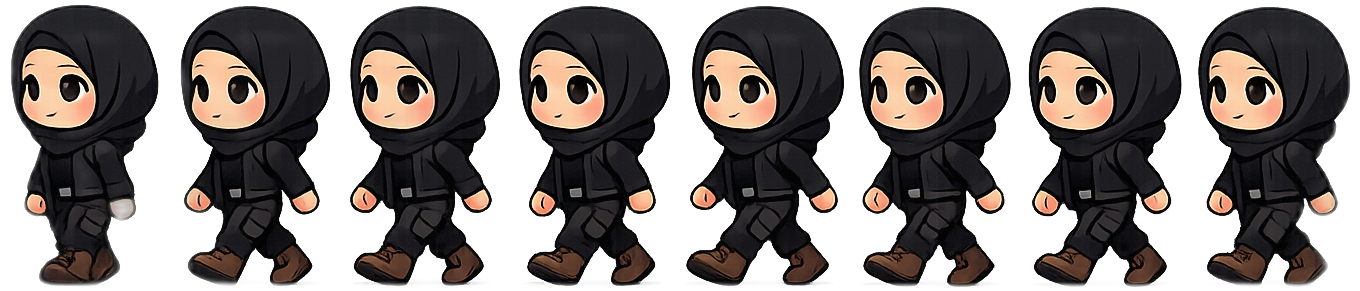
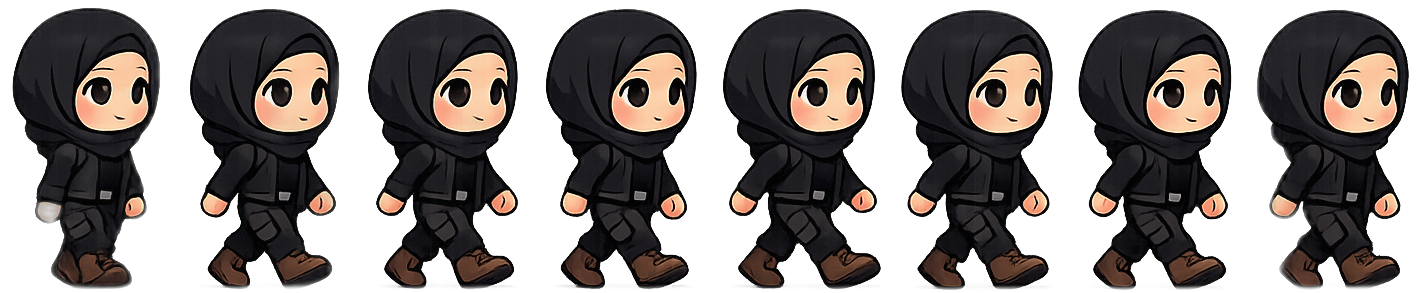
Fix couple facing: mirror bride sheet so both face same direction

diff --git a/index.html b/index.html
@@ -381,8 +381,8 @@ function roundRect(x,y,w,h,r){ ctx.beginPath(); ctx.moveTo(x+r,y); ctx.arcTo(x+w
 /* chibi walk-cycle sheets: one horizontal row of N cells, character facing RIGHT.
    metadata measured from the re-packed sheets (see assets/*_walk.png) */
 const WALK={
-  groom:{n:10, fw:149, fh:269, idle:7},
-  bride:{n: 8, fw:170, fh:291, idle:0},
+  groom:{n:10, fw:158, fh:271, idle:0},
+  bride:{n: 8, fw:178, fh:293, idle:0},
 };
 const CHAR_TH=80, CHAR_BOT=4;   // on-screen height (logical) + baseline pad baked into the cell
 function drawCouple(){ worldTransform();
@@ -391,15 +391,11 @@ function drawCouple(){ worldTransform();
   const gf = player.walking ? Math.floor(player.step)%gm.n : gm.idle;
   const bf = player.walking ? Math.floor(player.step)%bm.n : bm.idle;
   player.frame=gf;
-  if(player.walking){
-    // both face the direction of travel (sheets face right; flip when going left)
-    if(player.dir>0){ char(IMG.groom,gm,gf,cx-dx,by,false); char(IMG.bride,bm,bf,cx+dx,by,false); }
-    else            { char(IMG.bride,bm,bf,cx-dx,by,true);  char(IMG.groom,gm,gf,cx+dx,by,true); }
-  } else {
-    // idle: both face right, standing side by side
-    char(IMG.groom,gm,gf,cx-dx,by,false);
-    char(IMG.bride,bm,bf,cx+dx,by,false);
-  }
+  // Same facing rule whether walking or idle: face the last travel direction so they
+  // don't snap around when you stop. Sheets face right -> flip when heading left.
+  const flip = player.dir<0;
+  if(!flip){ char(IMG.groom,gm,gf,cx-dx,by,false); char(IMG.bride,bm,bf,cx+dx,by,false); }
+  else     { char(IMG.bride,bm,bf,cx-dx,by,true);  char(IMG.groom,gm,gf,cx+dx,by,true); }
   // little hand-link heart
   if(Math.sin(now/300)>0.5){ ctx.fillStyle="#e8889c"; ctx.font="9px 'Press Start 2P',monospace";
     ctx.textAlign="center"; ctx.fillText("♥",cx,by-CHAR_TH*0.6); }
